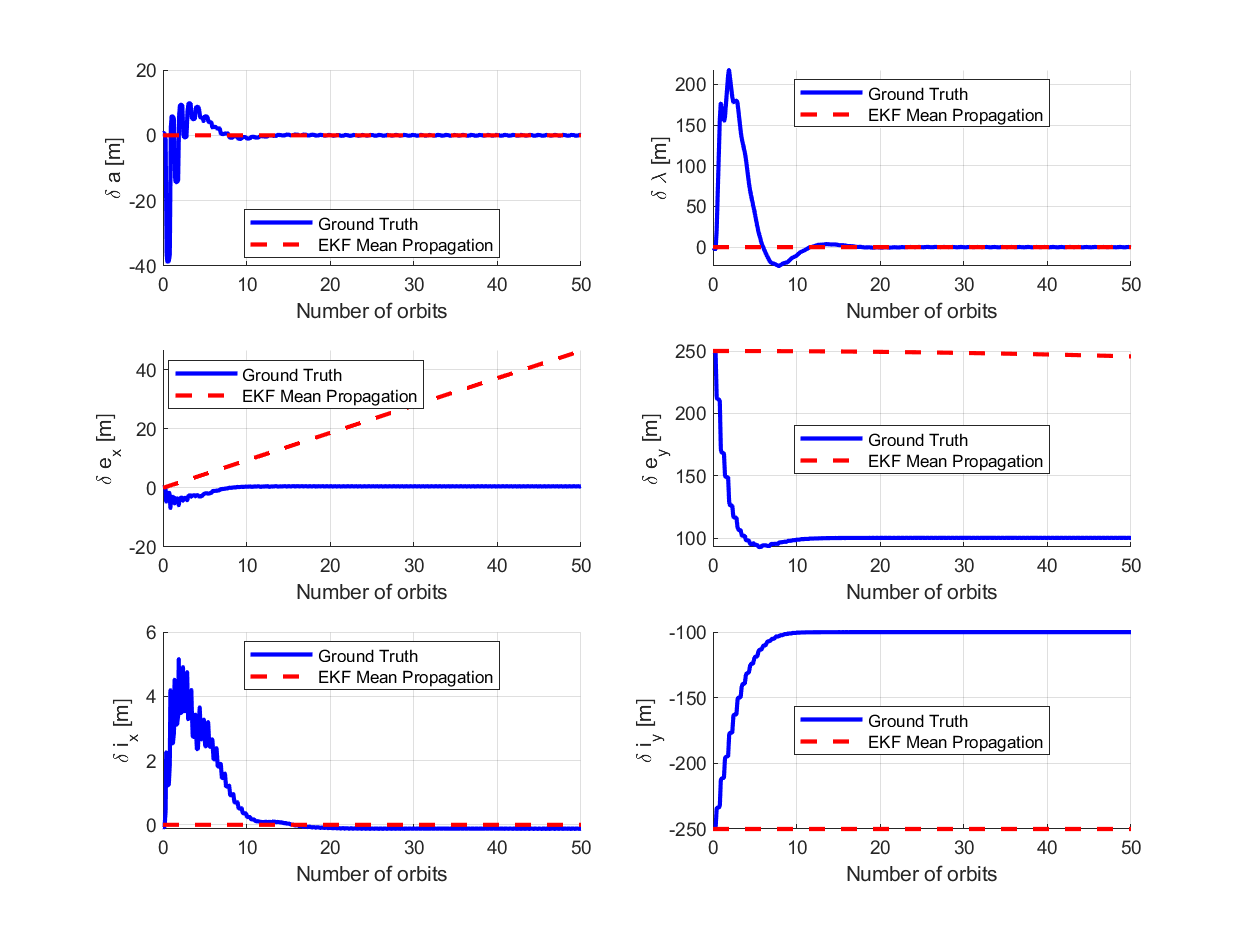
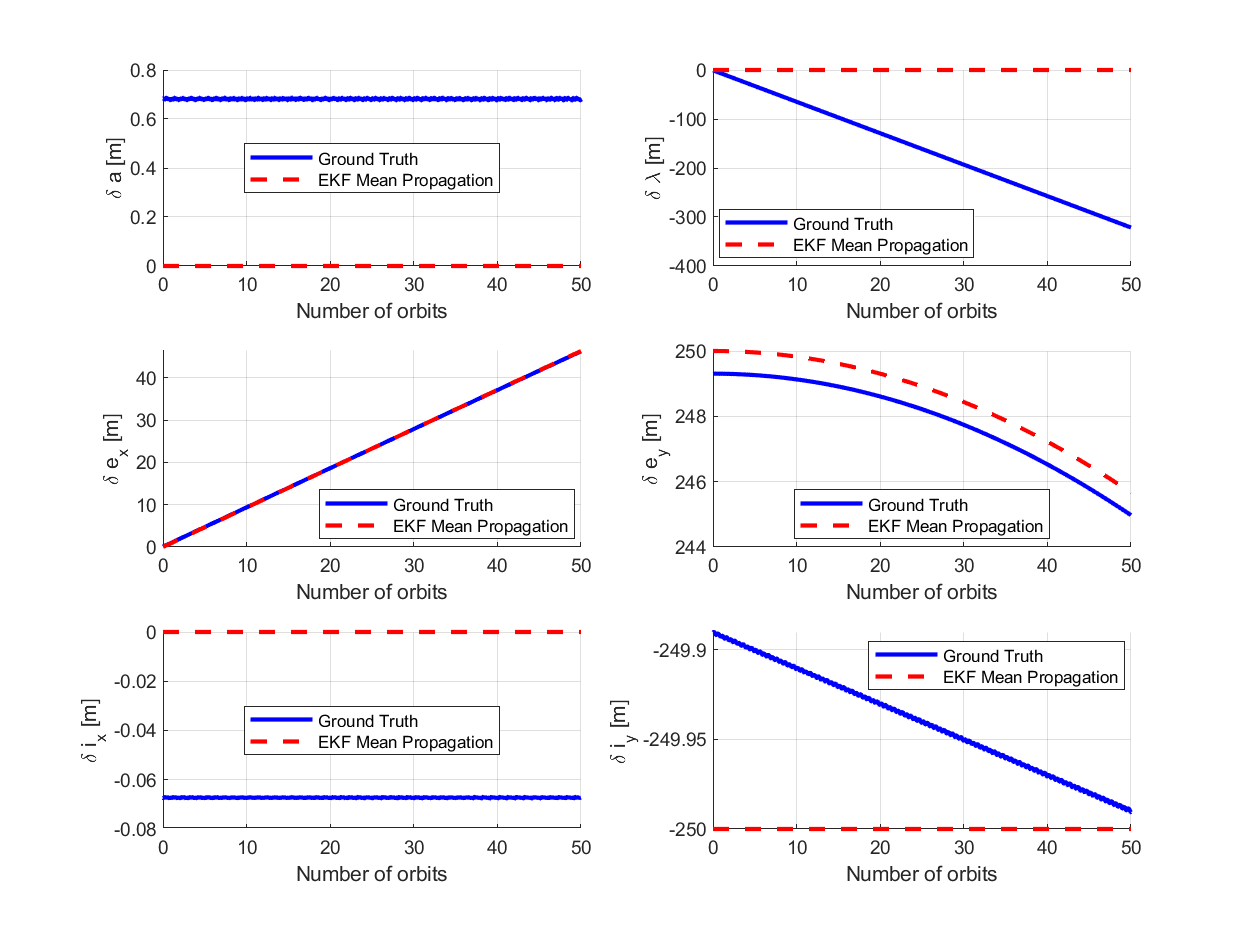
final PS7 plots

diff --git a/sim/test_EKF_continuous.m b/sim/test_EKF_continuous.m
@@ -162,7 +162,7 @@ function test_EKF_continuous(SV2_modes, SV3_modes, num_orbits_modes, num_orbits_
         else
             % Run station keeping 
             % SV3_a_vals(i, :) = station_keeping_continuous(SV3_roe, SV3_roe_nom, SV3_delta_de_max, SV3_delta_di_max, SV1_oe, N, k);
-            SV3_a_vals(i, :) = Lyapunov_feedback_control(SV3_roe, SV3_roe_nom, SV1_oe, N, k, num_orbits_station_keep(2)); % TODO: Fix this hardcoding
+            %SV3_a_vals(i, :) = Lyapunov_feedback_control(SV3_roe, SV3_roe_nom, SV1_oe, N, k, num_orbits_station_keep(2)); % TODO: Fix this hardcoding
             % SV3_a_vals(i, :) = [0, 0, 0];
         end
 

diff --git a/sim/initialize_roe_and_modes.m b/sim/initialize_roe_and_modes.m
@@ -17,8 +17,8 @@ SV1_OE_init = [a_SV1_init, e_SV1_init, i_SV1_init, RAAN_SV1_init, w_SV1_init, M_
 a_chief_meters = a_SV1_init*1e3;
 
 % Add up to 25 orbits
-num_orbits_modes = [0,20,0,0];
-num_orbits_station_keep = [0,30,0,0];
+num_orbits_modes = [0,0,0,0];
+num_orbits_station_keep = [50,0,0,0];
 
 SV2_ROE = SV2_modes(1, :);
 SV3_ROE = SV3_modes(1, :);
